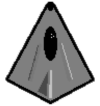
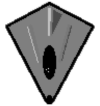
Added enemy hovering

diff --git a/2DShooter/2DShooter.cpp b/2DShooter/2DShooter.cpp
@@ -8,6 +8,7 @@ using namespace std;
 
 #define PLAYER_HOR_SPD 350.0f
 #define PLAYER_MAX_SHOTS 8
+#define MAX_ENEMIES 4
 
 typedef struct PlanePlayer
 {
@@ -21,6 +22,7 @@ typedef struct PlanePlayer
 void UpdatePlane(PlanePlayer *player, float delta, Vector4 flightArea);
 void UpdateLeftBullet(vector<Bullet> &bullets, Texture2D &texture, Vector2 &position, int &shotTimer);
 void UpdateRightBullet(vector<Bullet> &bullets, Texture2D &texture, Vector2 &position, int &shotTimer);
+void UpdateDefaultEnemies(vector<Enemy> &enemies, Texture2D &texture, int xPositions[4]);
 
 int main(void)
 {
@@ -45,9 +47,9 @@ int main(void)
     Texture2D bulletTexture = LoadTextureFromImage(bulletImg);
     UnloadImage(bulletImg);
 
-Image bulletImg = LoadImage("../mymedia/bullet_0.png");
-    Texture2D bulletTexture = LoadTextureFromImage(bulletImg);
-    UnloadImage(bulletImg);
+    Image defaultEnemyImg = LoadImage("../mymedia/default_enemy_0.png");
+    Texture2D defaultEnemyTexture = LoadTextureFromImage(defaultEnemyImg);
+    UnloadImage(defaultEnemyImg);
 
     Image planeImg = LoadImage("../mymedia/plane_100_0.png");
     Vector2 planePosition = {screenWidth / 2, screenHeight - 100};
@@ -64,7 +66,12 @@ Image bulletImg = LoadImage("../mymedia/bullet_0.png");
         backgroundPos.x + backgroundTexture.width,
         backgroundPos.y + backgroundTexture.height};
 
-    int shotTimer = 0;
+    int enemyPositions[] = {400 + 204, 400 +  408, 400 + 612, 400 +  816};
+    
+
+    int shotTimerRight = 0;
+    int shotTimerLeft = 0;
+    int enemyCounter = 0;
 
     SetTargetFPS(60);
     while (!WindowShouldClose())
@@ -80,10 +87,13 @@ Image bulletImg = LoadImage("../mymedia/bullet_0.png");
         DrawTexture(planePlayer.planeTexture, planePlayer.position.x, planePlayer.position.y, WHITE);
 
         // UpdateLeftBullet(&bulletLeft, planePlayer.position);
-        UpdateLeftBullet(bulletsLeft, bulletTexture, planePlayer.position, shotTimer);
+        UpdateLeftBullet(bulletsLeft, bulletTexture, planePlayer.position, shotTimerLeft);
         // UpdateRightBullet(bulletRight[i], planePlayer.position);
-        UpdateRightBullet(bulletsRight, bulletTexture, planePlayer.position, shotTimer);
-        // DrawText("Dette er ett spill", screenWidth / 2, screenHeight / 2, 45, GREEN);
+        UpdateRightBullet(bulletsRight, bulletTexture, planePlayer.position, shotTimerRight);
+        
+        //UpdateEnemies
+        UpdateDefaultEnemies(defaultEnemy, defaultEnemyTexture, enemyPositions);
+
         EndDrawing();
     }
     UnloadTexture(planePlayer.planeTexture);
@@ -107,12 +117,12 @@ void UpdatePlane(PlanePlayer *player, float delta, Vector4 flightArea)
 
 void UpdateLeftBullet(vector<Bullet> &bullets, Texture2D &texture, Vector2 &position, int &shotTimer)
 {
-    if (shotTimer < 7)
+    if (shotTimer < 12)
     {
         shotTimer++;
     }
 
-    if (shotTimer >= 7)
+    if (shotTimer >= 12)
     {
         Bullet bullet = {};
         bullet.speed = 10;
@@ -139,12 +149,12 @@ void UpdateLeftBullet(vector<Bullet> &bullets, Texture2D &texture, Vector2 &posi
 
 void UpdateRightBullet(vector<Bullet> &bullets, Texture2D &texture, Vector2 &position, int &shotTimer)
 {
-    if (shotTimer < 7)
+    if (shotTimer < 12)
     {
         shotTimer++;
     }
 
-    if (shotTimer >= 7)
+    if (shotTimer >= 12)
     {
         Bullet bullet = {};
         bullet.speed = 10;
@@ -167,4 +177,31 @@ void UpdateRightBullet(vector<Bullet> &bullets, Texture2D &texture, Vector2 &pos
             bullets.erase(bullets.begin() + i);
         }
     }
+}
+
+void UpdateDefaultEnemies(vector<Enemy> &enemies, Texture2D &texture, int xPositions[4]) 
+{
+    for(int i = 0; i < MAX_ENEMIES; i++) {
+        if(enemies.size() < MAX_ENEMIES) 
+        {
+            Enemy defEnemy = {};
+            defEnemy.active = false;
+            defEnemy.speed = 2;
+            defEnemy.isBoss = false;
+            defEnemy.texture = texture;
+            defEnemy.x = xPositions[i];
+            defEnemy.y = 150;
+            enemies.push_back(defEnemy);
+        }
+        
+        if(!enemies[i].active && enemies[i].health >= 0) enemies[i].active = true;
+
+        if(enemies[i].active && enemies[i].health >= 0) 
+        {
+            enemies[i].active = true;
+            enemies[i].hover(xPositions[i], 50);
+            DrawTexture(enemies[i].texture, enemies[i].x, enemies[i].y, WHITE);
+        }
+    }
+
 }

diff --git a/2DShooter/enemy.cpp b/2DShooter/enemy.cpp
@@ -10,18 +10,41 @@ Enemy::Enemy()
     texture = {};
     speed = 0;
     active = false;
+    leftHover=false,
+    rightHover=true;
 }
     
 
 void Enemy::update() 
 {
-    Vector2 windowsScale = GetWindowScaleDPI();
-    if(y < windowsScale.y) {
         y += speed;
+ 
+}
+
+void Enemy::hover(int position, int hoverRange) 
+{
+    int range[] = {position - hoverRange, position + hoverRange};
+    
+    if(leftHover && x > range[0]) 
+    {
+        x-=speed;
+        
+        if(x == range[0]) {
+            rightHover = true;
+            leftHover=false;
+        }
     }
-    else {
-        active = false;
+    
+    if(rightHover && x <= range[1])
+    {
+        x+=speed;
+
+        if(x == range[1]) {
+            rightHover = false;
+            leftHover=true;
+        }
     }
+ 
 }
 
 void Enemy::isHit(int bulletDamage) {

diff --git a/2DShooter/enemy.h b/2DShooter/enemy.h
@@ -18,7 +18,13 @@ public:
 
     void update();
 
+    void hover(int position, int hoverRange);
+
     void isHit(int bulletDamage);
+
+private: 
+    bool leftHover;
+    bool rightHover;
 };
 
 
